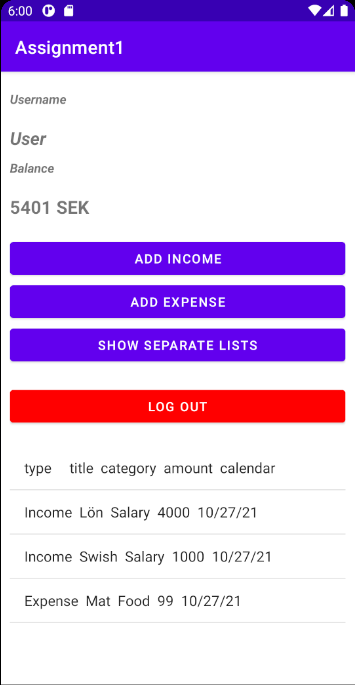
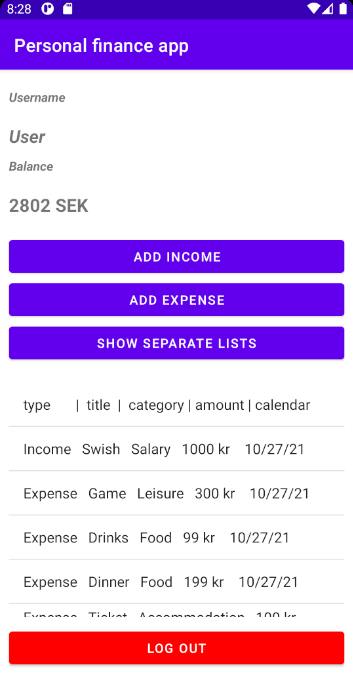
small changes in UI

diff --git a/app/src/main/java/com/example/assignment1/HomeActivity.java b/app/src/main/java/com/example/assignment1/HomeActivity.java
@@ -58,8 +58,8 @@ public class HomeActivity extends AppCompatActivity {
                 if(cursor1.getCount()== 0){
                     Toast.makeText(this, "No Data to Show in list", Toast.LENGTH_SHORT).show();
                 }else {
-                    listItem.add(0, cursor1.getColumnName(3)+ "     "+cursor1.getColumnName(4)+
-                            "  "+cursor1.getColumnName(5)+ "  "+cursor1.getColumnName(6)+ "  "+cursor1.getColumnName(7));
+                    listItem.add(0, cursor1.getColumnName(3)+ "       |  "+cursor1.getColumnName(4)+
+                            "  |  "+cursor1.getColumnName(5)+ " | "+cursor1.getColumnName(6)+ " | "+cursor1.getColumnName(7));
 
                     while(cursor1.moveToNext()){
                         String strCategory="";
@@ -84,8 +84,8 @@ public class HomeActivity extends AppCompatActivity {
                                 break;
 
                         }
-                        listItem.add(cursor1.getString(3) +"  "+cursor1.getString(4)
-                                    + "  " +strCategory+ "  "+cursor1.getInt(6)+"  "+cursor1.getString(7));
+                        listItem.add(cursor1.getString(3) +"   "+cursor1.getString(4)
+                                    + "   " +strCategory+ "   "+cursor1.getInt(6)+" kr    "+cursor1.getString(7));
 
 
                     }
